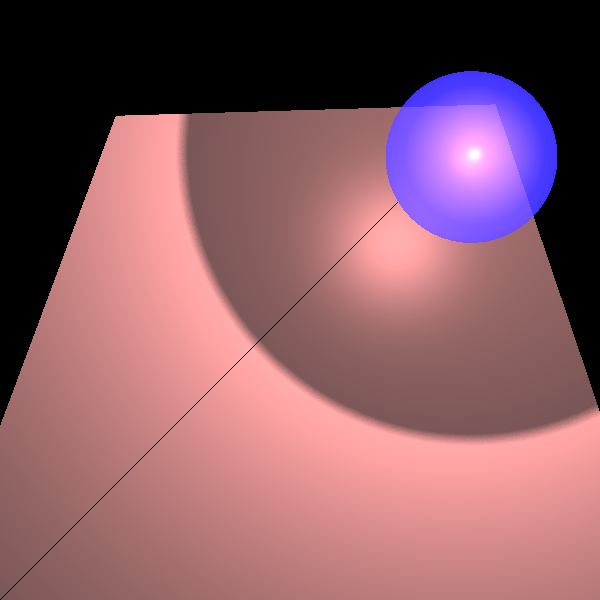
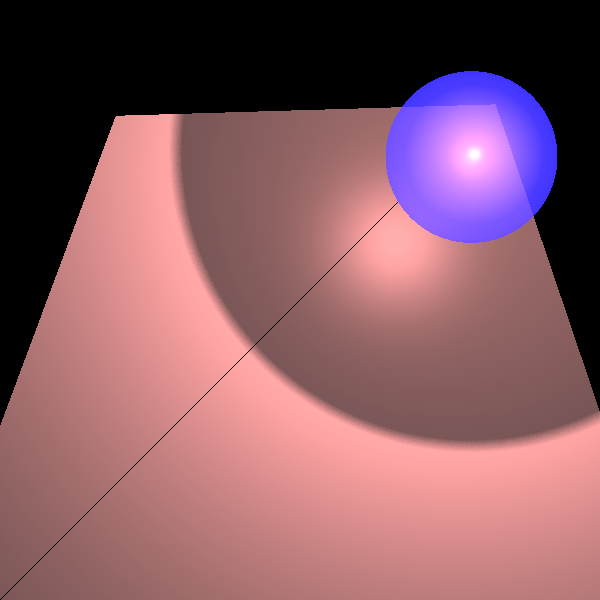
bug fixing in sphere geometry

Changed region(s): [[0.27, 0.18, 1.0, 0.75]]

diff --git a/src/geometries/Sphere.java b/src/geometries/Sphere.java
@@ -1,6 +1,5 @@
 package geometries;
 
-import java.util.ArrayList;
 import java.util.List;
 import static primitives.Util.*;
 
@@ -25,7 +24,7 @@ public class Sphere extends Geometry {
 
     /**
      * constructor for the sphere
-     * 
+     *
      * @param center
      * @param radius
      */
@@ -82,31 +81,28 @@ public class Sphere extends Geometry {
 
     @Override
     public List<GeoPoint> findGeoIntersections(Ray ray) {
-        ArrayList<GeoPoint> intersectionsPoints = null;
-        Vector u = new Vector(center.subtract(ray.getP0())); // u = O - p0
-        double tm = ray.getDir().dotProduct(u); //// t_m = v * u
-        double d = Math.sqrt(u.lengthSquared() - tm * tm); // d = sqrt(|u|^2 - t_m^2)
-        double t = (alignZero(radius - d));
-        if ((d < radius) && t != 0.0 && !((tm < 0) && (u.length() > radius))) {
-            double th = Math.sqrt(radius * radius - d * d); //// th = sqrt(r^2 - d^2)
-            double t1 = tm + th;
-            Point3D p1 = new Point3D(ray.getPoint(t1));
-            if (!p1.equals(ray.getP0())) {
-                intersectionsPoints = new ArrayList<>();
-                intersectionsPoints.add(new GeoPoint(this, p1));
-            }
-            if (!isZero(tm) && (tm >= th)) {
-                double t2 = tm - th;
-                Point3D p2 = new Point3D(ray.getPoint(t2));
-                if (!p2.equals(ray.getP0())) {
-                    if (intersectionsPoints.isEmpty()) {
-                        intersectionsPoints = new ArrayList<>();
-                    }
-                    intersectionsPoints.add(new GeoPoint(this, p2));
-                }
-            }
+        Vector u = null;
+        try {
+            u = center.subtract(ray.getP0());
+        } catch (Exception e) { // ray start in the center of the sphere
+            return List.of(new GeoPoint(this, ray.getPoint(radius))); // only 1 intersection point in this case
         }
-        return intersectionsPoints;
+        double tm = alignZero(ray.getDir().dotProduct(u)); //// t_m = v * u
+        double thSquared = (radius * radius) - (u.lengthSquared() - (tm * tm));
+
+        if (alignZero(thSquared) <= 0) // the line is out of the sphere
+            return null;
+
+        double th = Math.sqrt(thSquared);
+        double t2 = alignZero(tm + th);
+        if (t2 <= 0)
+            return null;
+
+        double t1 = alignZero(tm - th);
+        if (t1 > 0)
+            return List.of(new GeoPoint(this, ray.getPoint(t1)), new GeoPoint(this, ray.getPoint(t2)));
+        else
+            return List.of(new GeoPoint(this, ray.getPoint(t2)));
     }
 
 }

diff --git a/src/unittests/geometries/CylinderTests.java b/src/unittests/geometries/CylinderTests.java
@@ -1,14 +1,47 @@
 package unittests.geometries;
 
-import static org.junit.Assert.*;
-
+import geometries.Cylinder;
 import org.junit.Test;
+import primitives.Point3D;
+import primitives.Ray;
+import primitives.Vector;
+
+import static org.junit.Assert.*;
 
 public class CylinderTests {
 
 	@Test
 	public void testGetNormal() {
-		fail("Not yet implemented");
-	}
+		// ============ Equivalence Partitions Tests ==============
+		// TC01: point on the body of the Cylinder
+		Cylinder cy = new Cylinder(new Ray(Point3D.ZERO, new Vector(1, 0, 0)), 1, 2);
+		Point3D p = new Point3D(1, 0, 1);
+		assertEquals("Cylinder getNormal() wrong result", new Vector(0, 0, 1), cy.getNormal(p));
 
+		// TC02: point on the lower base
+		Point3D p4 = new Point3D(0, 0, 0.5);
+		assertEquals("Cylinder getNormal() wrong result", new Vector(1, 0, 0), cy.getNormal(p4));
+
+		// TC03:Point is on the upper base
+		Point3D p1 = new Point3D(2, 0, 0.5);
+		assertEquals("Cylinder getNormal() wrong result", new Vector(1, 0, 0), cy.getNormal(p1));
+
+		// =============== Boundary Values Tests ==================
+
+		// TC04:point between the body and the upper base
+		Point3D p2 = new Point3D(2, 0, 1);
+		assertEquals("Cylinder getNormal() wrong result", new Vector(1, 0, 0), cy.getNormal(p2));
+
+		// TC05:point between the body and the lower base
+		Point3D p3 = new Point3D(0, 0, 1);
+		assertEquals("Cylinder getNormal() wrong result", new Vector(1, 0, 0), cy.getNormal(p3));
+
+		// TC06:Point is in the center of lower base
+		Point3D p6 = new Point3D(0, 0, 0);
+		assertEquals("Cylinder getNormal() wrong result", new Vector(1, 0, 0), cy.getNormal(p6));
+
+		// TC07:Point is in the center of lower base
+		Point3D p7 = new Point3D(2, 0, 0);
+		assertEquals("Cylinder getNormal() wrong result", new Vector(1, 0, 0), cy.getNormal(p7));
+	}
 }

diff --git a/src/geometries/Cylinder.java b/src/geometries/Cylinder.java
@@ -3,6 +3,7 @@ package geometries;
 import primitives.Point3D;
 import primitives.Ray;
 import primitives.Vector;
+import static primitives.Util.*;
 
 /**
  * Cylinder class represents 3-dimensional cylinder in 3D Cartesian coordinate
@@ -20,7 +21,7 @@ public class Cylinder extends Tube {
 
     /**
      * constructor that uses the super constructor of tube to set the cylinder class
-     * 
+     *
      * @param axisRay
      * @param radius
      * @param height
@@ -50,7 +51,7 @@ public class Cylinder extends Tube {
     }
 
     /**
-     * This method calculates and returns the normal vector (not implemented)
+     * This method calculates and returns the normal vector
      *
      * @param gp
      * @return Vector
@@ -58,7 +59,18 @@ public class Cylinder extends Tube {
     @Override
     public Vector getNormal(Point3D gp) {
 
-        return null;
-    }
+        Point3D p0 = getAxisRay().getP0();
+        Vector opposite = getAxisRay().getDir();
 
+        if (p0.equals(gp))
+            return opposite;
+
+        Vector hypotenuse = gp.subtract(p0);
+        double t = hypotenuse.dotProduct(opposite);
+        if (isZero(t - height) || isZero(t)) // point is on the bases of the cylinder
+            return opposite; // axisRay vector
+
+        Point3D center = p0.add(opposite.scale(t));
+        return gp.subtract(center);
+    }
 }

diff --git a/src/unittests/geometries/SphereTest.java b/src/unittests/geometries/SphereTest.java
@@ -13,7 +13,7 @@ import primitives.Vector;
 
 public class SphereTest {
 
-        Sphere sphere = new Sphere(new Point3D(0, 0, 0), 1);
+        Sphere sphere = new Sphere(new Point3D(1, 0, 0), 1);
 
         @Test
         public void testGetNormal() {
@@ -93,11 +93,11 @@ public class SphereTest {
                                 sphere1.findIntersections(new Ray(new Point3D(1, 0.5, 0), new Vector(0, 0.5, 0))));
 
                 // TC16: Ray starts at the center (1 points)
-                Point3D p9 = new Point3D(1, 1, 0);
+                Point3D p9 = new Point3D(2, 0, 0);
                 assertEquals("TC16: Wrong number of points", 1,
-                                (sphere1.findIntersections(new Ray(new Point3D(1, 0, 0), new Vector(0, 1, 0)))).size());
+                                (sphere1.findIntersections(new Ray(new Point3D(1, 0, 0), new Vector(1, 0, 0)))).size());
                 assertEquals("TC16: Failed test", List.of(p9),
-                                sphere1.findIntersections(new Ray(new Point3D(1, 0, 0), new Vector(0, 1, 0))));
+                                sphere1.findIntersections(new Ray(new Point3D(1, 0, 0), new Vector(1, 0, 0))));
 
                 // TC17: Ray starts at sphere and goes outside (0 points)
                 assertNull("TC17: Failed test",

diff --git a/src/renderer/RayTracerBasic.java b/src/renderer/RayTracerBasic.java
@@ -303,12 +303,6 @@ public class RayTracerBasic extends RayTraceBase {
      * @return new vector
      */
     private static Vector randomVector(Ray ray, LightSource light) {
-        /*
-         * double x = v.getHead().getX() + RAND.nextDouble() * 2 * radius - radius;
-         * double y = v.getHead().getY() + RAND.nextDouble() * 2 * radius - radius;
-         * double z = v.getHead().getZ() + RAND.nextDouble() * 2 * radius - radius;
-         * return new Vector(x, y, z);
-         */
 
         double x = RAND.nextDouble() * 2 * light.getRadius() - light.getRadius();
         double y = RAND.nextDouble() * 2 * light.getRadius() - light.getRadius();
@@ -326,8 +320,8 @@ public class RayTracerBasic extends RayTraceBase {
             t = 1000000;
         }
         Point3D Pc = ray.getPoint(t);
-        Vector Xx = X.scale(x);
-        Vector Yy = Y.scale(y);
+        Vector Xx = X.scale(x + 1);
+        Vector Yy = Y.scale(y + 1);
         Point3D Pi = Pc.add(Xx).add(Yy);
         return Pi.subtract(ray.getP0());
 

diff --git a/src/unittests/elements/IntersectionTests.java b/src/unittests/elements/IntersectionTests.java
@@ -66,9 +66,6 @@ public class IntersectionTests {
 
         // TC04:the sphere around the screen
         intersections(new Sphere(new Point3D(0, 0, 2), 4), 9, cam2);
-
-        // TC05: the sphere is behind the screen
-        intersections(new Sphere(new Point3D(0, 0, -1), 0.5), 0, cam2);
     }
 
     /**
